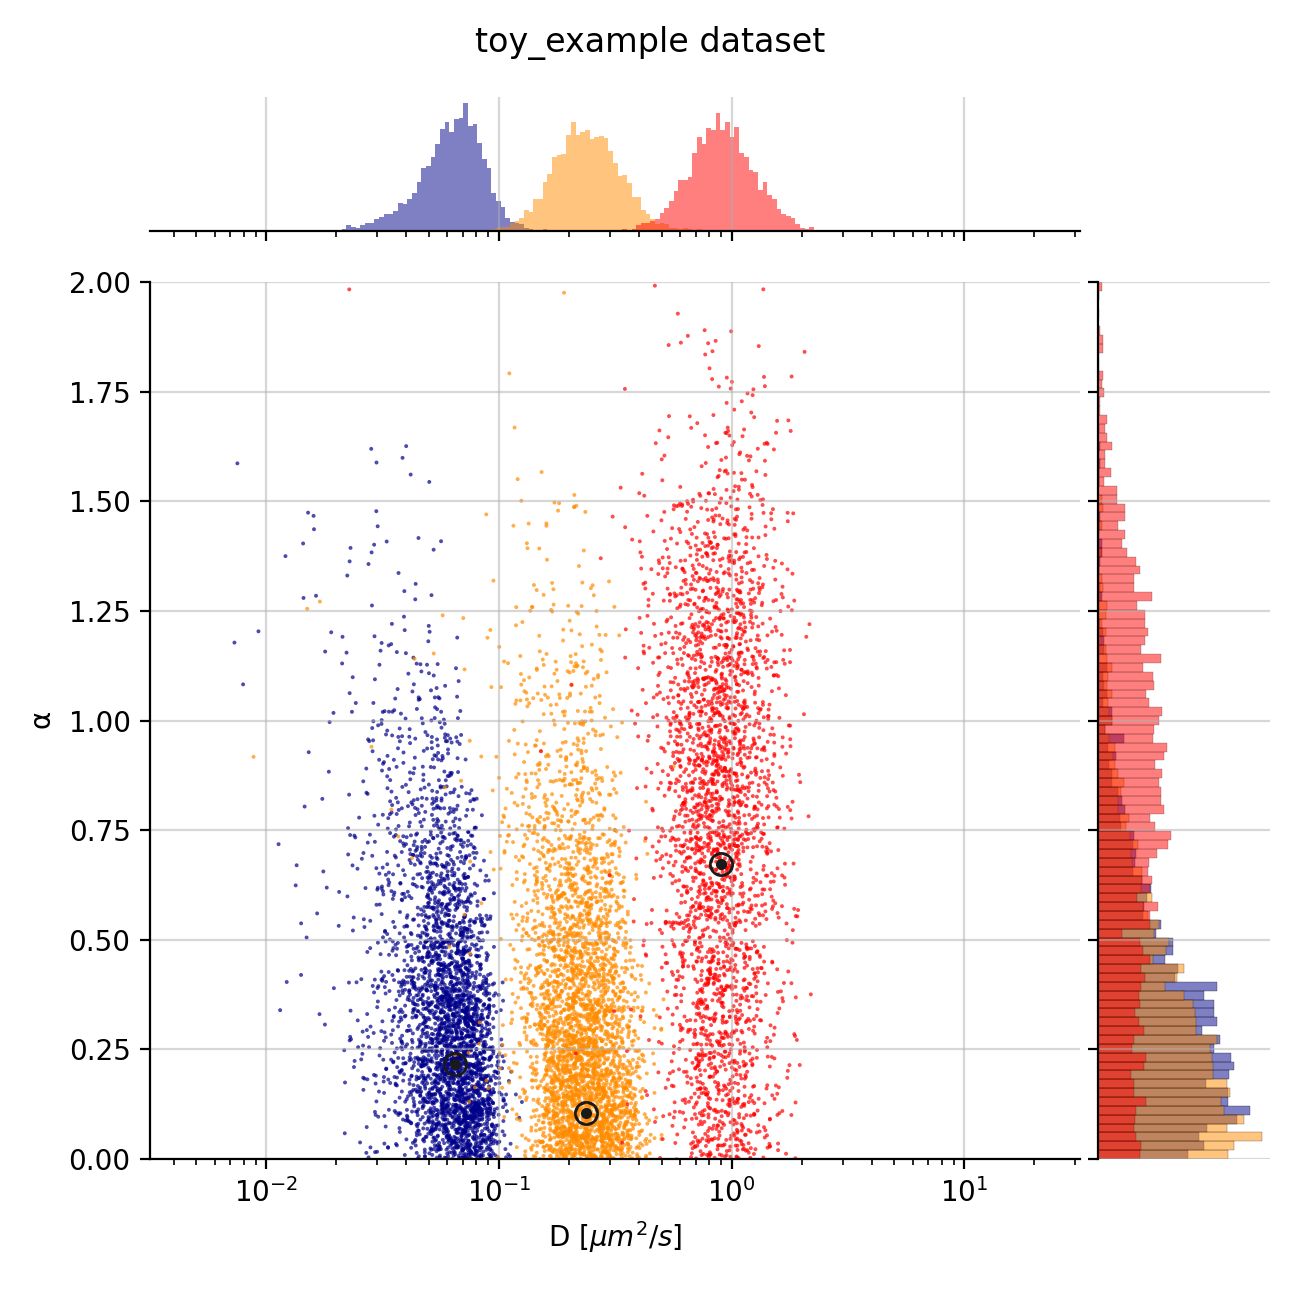
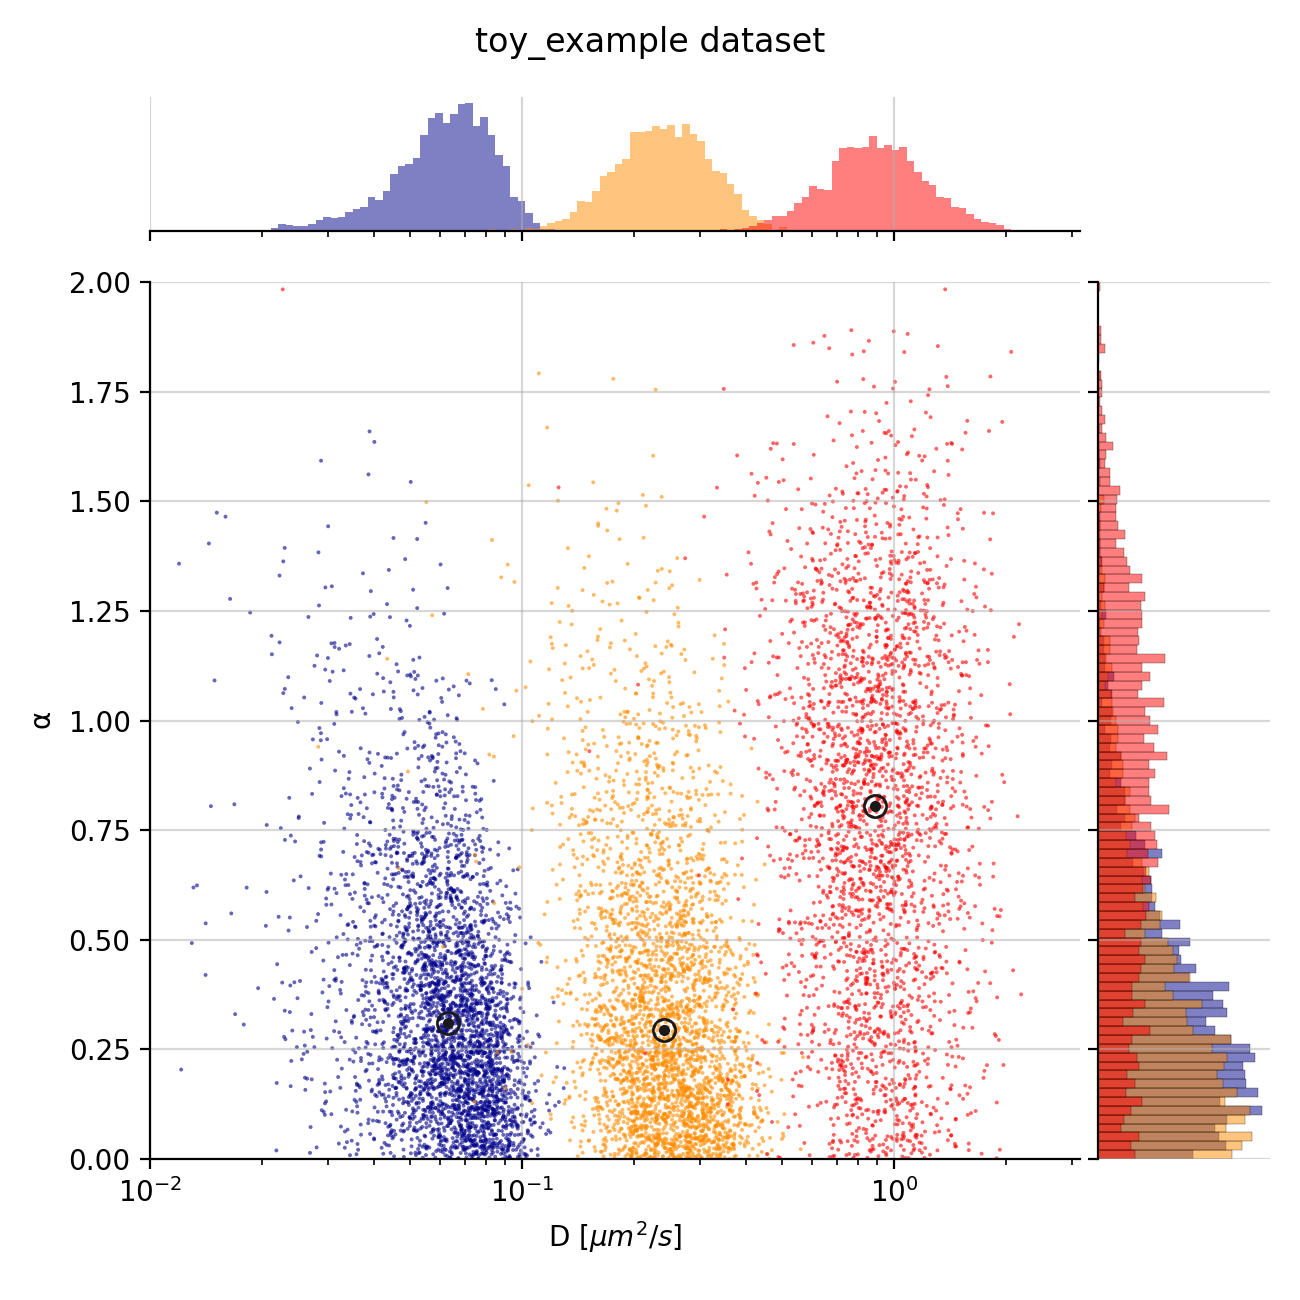
fix

diff --git a/src/analysis.py b/src/analysis.py
@@ -120,6 +120,7 @@ def compute_all_msd(tracklet_lists, parms):
 
 def plot_scatter_alpha_diffusion(motion_parms, parms):
     """Make a scatter plot of both the alpha and diffusion distributions."""
+    print('\ncentroids...')
     func = None
     for state in range(parms['num_states']):
         col = parms['colors'][state]
@@ -130,25 +131,26 @@ def plot_scatter_alpha_diffusion(motion_parms, parms):
         if func is None:
             func = sns.JointGrid(x='x', y='y', data=dataframe, height=6.5)
             axs = func.ax_joint
-        tmp_alpha = np.array(motion_parms[state]['alpha'])
         tmp_diff = np.array(motion_parms[state]['diffusion'])
-        axs.scatter(tmp_diff, tmp_alpha, alpha=0.7, color=col, edgecolor='none', s=2)
-        # s=0.3
-        centroid = {'diffusion': np.median(tmp_diff),
-                    'alpha': np.median(tmp_alpha)}
+        tmp_alpha = np.array(motion_parms[state]['alpha'])
+        tmp_diff = tmp_diff[tmp_alpha>=0]
+        tmp_alpha = tmp_alpha[tmp_alpha>=0]
+        axs.scatter(tmp_diff, tmp_alpha, alpha=0.6, color=col, edgecolor='none', s=2)
+        centroid = {'diffusion': np.median(tmp_diff), 'alpha': np.median(tmp_alpha)}
+        print(f"state {state+1}: alpha = {centroid['alpha']:>4.2f}, D = {centroid['diffusion']:>4.2f} µm²/s")
         axs.plot(centroid['diffusion'], centroid['alpha'], 'o', color='0.1', alpha=1, ms=3)
         axs.plot(centroid['diffusion'], centroid['alpha'], 'o', color='0.1', alpha=1, ms=1, mew=8)
         # bins=150, bins=200)
         bins = np.logspace(-2.5, 1.5, 200)
-        sns.histplot(x=tmp_diff, color=col, ax=func.ax_marg_x, alpha=0.5, bins=bins, stat='probability')
+        sns.histplot(x=tmp_diff, color=col, ax=func.ax_marg_x, alpha=0.5, bins=bins, stat='count')
         bins = np.linspace(0, 2, 100)
-        sns.histplot(y=tmp_alpha, color=col, ax=func.ax_marg_y, alpha=0.5, bins=bins, stat='probability')
+        sns.histplot(y=tmp_alpha, color=col, ax=func.ax_marg_y, alpha=0.5, bins=bins, stat='count')
     axs.set_xscale('log')
     axs.set_xlabel(r'$\mathrm{D}$ $[\mu m^2/s]$')
     axs.set_ylabel(r'$\mathrm{\alpha}$')
     func.ax_marg_x.grid(axis='x', alpha=0.5)
     func.ax_marg_y.grid(axis='y', alpha=0.5)
-    axs.set_xlim([10**-2.5, 10**1.5])
+    axs.set_xlim([10**-2, 10**0.5])
     axs.set_ylim([0, 2])
     axs.grid(alpha=0.5)
     fig = plt.gcf()

diff --git a/tracksegnet.py b/tracksegnet.py
@@ -11,6 +11,7 @@
 
 # Third-party modules
 import os
+import sys
 from pathlib import Path
 from datetime import datetime
 import numpy as np
@@ -29,7 +30,7 @@ if __name__ == "__main__":
 
     START_TIME = datetime.now()
 
-    PARMS_FILENAME = sys.argv[0]
+    PARMS_FILENAME = sys.argv[-1]
     # PARMS_FILENAME = 'parms.csv'
     PARMS_DF = pd.read_csv(PARMS_FILENAME, sep='\t').set_index('parms').squeeze().to_dict()
     PARMS_DF = check_parms(PARMS_DF)
@@ -58,7 +59,6 @@ if __name__ == "__main__":
         'length_threshold': 6,
 
         ## Trajectory simulation:
-        'n_dim': 2, # X and Y coordinates => 2 dimensions
         'track_length_fixed': True,
         'track_length': 27,
         'num_simulate_tracks': 10000,
@@ -66,10 +66,7 @@ if __name__ == "__main__":
         'ptm': np.array([[PARMS_DF[f'pt_{state1}_{state2}'] for state1 in range(1, NSTATES+1)]\
                         for state2 in range(1, NSTATES+1)]),
         'min_frames':4, # Minimal amount of frames
-        'min_frames_in_same_state':4, # Minimal amount of frames for particles remaining in a state
         'beta':100, # Mean of exponential distribution for length tracks
-        'num_interval':10, # Parameter for retricted motion
-        'motion':20, # Parameter for retricted motion
 
         ## Parameters to generate the LSTM model:
         'num_features': 6,

diff --git a/paper/paper.md b/paper/paper.md
@@ -22,17 +22,16 @@ bibliography: paper.bib
 
 # Summary
 
-`TrackSegNet` is a python program to run from command line, which permits the classification and segmentation of trajectories into diffusive states by computing trajectory features which are used as inputs to a supervised deep neural network. After segmentation, `TrackSegNet` further estimates the motion parameters (the diffusion constant $D$ and anomalous exponent $\alpha$) for each segmented track using the mean squared displacement (MSD) analysis. The measured features and resulting segmentation are stored as CSV files which can be useful for subsequent work (probability calculations, generate figures for scientific publication, etc.). Originally developped for the quantification of protein dynamics using single-particle tracking (SPT) experiments, its use can be extended to any type of trajectory dataset.
+`TrackSegNet` is a python program to run from command line, which permits the classification and segmentation of trajectories into diffusive states by computing trajectory features which are used as inputs to a supervised deep neural network. After segmentation, `TrackSegNet` further estimates the motion parameters (the diffusion constant $D$ and anomalous exponent $\alpha$) for each segmented track using the mean squared displacement (MSD) analysis. The measured features and resulting segmentation are stored as CSV files which can be useful for subsequent work (e.g., probability calculations, generate figures for scientific publication). Originally developped for the quantification of protein dynamics using single-particle tracking (SPT) experiments, its use can be extended to any type of trajectory dataset.
 
 # Statement of need
 
-Recent advances in the field of microscopy allow the capture, at nanometer resolution, of the motion of fluorescently-labeled particles in live cells such as proteins or chromatin loci. Therefore, the development of methods to characterize the dynamics of a group of particles has become more than necessary [@munoz2021]. A typical analysis is the classification and segmentation of trajectories into diverse diffusive state, when multiple types of motion are present in a dataset (e.g., confined, superdiffusive) due to the properties of the labeled molecule (e.g., protein bound/unbound to the DNA).
+Recent advances in the field of microscopy allow the capture, at nanometer resolution, of the motion of fluorescently-labeled particles in live cells such as proteins or chromatin loci. Therefore, the development of methods to characterize the dynamics of a group of particles has become more than necessary [@munoz2021]. A typical analysis is the classification and segmentation of trajectories into diverse diffusive states when multiple types of motion are present in a dataset (e.g., confined, superdiffusive) due to the properties of the labeled molecule (e.g., protein bound/unbound to the DNA).
 
 
 # Method
 
-The method is based on @arts2019 with slight improvements described in the "Novelty" subsection. This software was specifically developed for replicability on other datasets.
-
+This software is based on the method of @arts2019 with slight improvements, and allows replicability on other datasets.
 
 ## Neural Network
 
@@ -40,12 +39,12 @@ Tracking particles from 2-dimensional images results in a set $\mathcal{S}$ of t
 
 The network is built using functions from the Keras library [@chollet2015], and is composed of a bidirectional long short-term memory (LSTM) layer (having 200 hidden units) followed by a fully connected time-distributed layer with a `SoftMax` activation function. The inputs of the network are of six trajectory features computed beforehand, while the outputs are probabilities for each trajectory point of belonging to one of the $N$ diffusive states, the predicted state is defined by the highest probability.
 
-The computed features along a given trajectory are: the displacements $\Delta x_{\delta=1}$ and $\Delta y_{\delta=1}$ at the first discrete time interval $\delta$ (with $\Delta r_\delta (t) = r(t) - r(t+\delta)$), the distances $d_{\delta=1}$ (with $d_\delta (t) = \sqrt{\Delta x_\delta (t)^2 - \Delta y_\delta (t)^2}$), the mean of displacements $\overline{d_{\delta=1,p=1}}$ and $\overline{d_{\delta=2,p=1}}$ ($\overline{d_{\delta,p}}(t) = \frac{1}{2p+1}\sum_{k=t-p}^{t+p} d_{\delta}(k)$ with $p\geq 1$) and the angles between two consecutive displacements $\theta_{\delta=1}$. The first and last trajectory points of each trajectory vector are discarded due to missing feature(s).
+The computed features along a given trajectory are: the displacements $\Delta x_{\delta=1}$ and $\Delta y_{\delta=1}$ at the first discrete time interval $\delta=1$ (with $\Delta r_\delta (t) = r(t) - r(t+\delta)$), the distances $d_{\delta=1}$ (with $d_\delta (t) = \sqrt{\Delta x_\delta (t)^2 - \Delta y_\delta (t)^2}$), the mean of displacements $\overline{d_{\delta=1,p=1}}$ and $\overline{d_{\delta=2,p=1}}$ (with $\overline{d_{\delta,p}}(t) = \frac{1}{2p+1}\sum_{k=t-p}^{t+p} d_{\delta}(k)$ with $p\geq 1$) and the angles between two consecutive displacements $\theta_{\delta=1}$. The last feature is an addition to the initial method, used for a better distinction of the trajectory confinement. The first and last trajectory points of each trajectory vector are discarded due to missing computed feature(s).
 
 
 ## Training
 
-The network is trained using synthetic fractional Brownian motion (fBm) trajectories of mixed diffusive states. For this purpose, 10,000 fBm trajectories with a switching mode between states and a total length of 27 frames are generated for each training. The fBm process is characterized using the fBm kernel [@lundahl1986] defined as $k_{\text{FBM}}(t) = D\left[\ \lvert t+1\rvert^\alpha  - 2 \lvert t\rvert^\alpha + \lvert t-1\rvert^\alpha\right]$, with $t=\Delta t / \delta$ ($\Delta t$ the time measured between two frames) and the pre-defined motion parameters $m = (D, \alpha)$.
+The network is trained using synthetic fractional Brownian motion (fBm) trajectories of mixed diffusive states. For this purpose, 10,000 fBm trajectories with a switching mode between states and a total length of 27 frames are generated for each independent training. The fBm process is characterized using the fBm kernel [@lundahl1986] defined as $k_{\text{FBM}}(t) = D\left[\ \lvert t+1\rvert^\alpha  - 2 \lvert t\rvert^\alpha + \lvert t-1\rvert^\alpha\right]$, with $t=\Delta t / \delta$ ($\Delta t$ the time measured between two frames) and the pre-defined motion parameters $m = (D, \alpha)$.
 
 The model is optimized using `Adam` during the training and a categorical cross-entropy loss function.
 
@@ -55,41 +54,26 @@ The model is optimized using `Adam` during the training and a categorical cross-
 The main parameters of the training are tunable from the `params.csv` file to create a new variant of the model:
 
 * `num_states` is an important parameter permitting to decide the number $N$ of diffusive states. This number can vary from 2 to 6 states, but it is recommended to choose 2 to 4 states.
-* `state_i_diff` and `state_i_alpha` the approximate motion parameters $m$ for each of the $N$ diffusive state. The diffusion constant $D$ is dimensionless, and the anomalous exponent value $\alpha$ is ranging from 0 to 2.
+* `state_i_diff` and `state_i_alpha` the approximate motion parameters $m$ for each of the $N$ diffusive state. The diffusion constant $D$ is dimensionless, and the anomalous exponent value $\alpha$ is ranging from 0 to 2 (]0-1[: subdiffusion, 1: Brownian motion, ]1-2[: superdiffusion).
 * `pt_i_j` the probability of transitionning from the state i to the state j. The total number of probabilities should be $N^2$.
 
 The remaining parameters are related to the experimental dataset:
 
-* `data_path` the path of the dataset of trajectories to segment.
-* `format_track` the format of the files containing the trajectory coordinates, either `MDF` (see `MTrackJ` data file format) or `CSV`
-* `time_frame` the time interval between two trajectory points in seconds.
-* `pixel_size` the dimension of a pixel in $\mu m$.
+* `data_path`, the path of the dataset of trajectories to segment.
+* `track_format`, the format of the files containing the trajectory coordinates, either `MDF` (see `MTrackJ` data file format) or `CSV`
+* `time_frame`, the time interval between two trajectory points in seconds.
+* `pixel_size`, the dimension of a pixel in $\mu m$.
 
 
 ## Classification and MSD analysis
 
-
-After training the model, the gaps in the trajectories are filled (see next subsection) and the features are computed for each experimental trajectories. Each point are therefore classified as one of the $N$ diffusive states using the trained model. Based on the state classification, the trajectories are segmented and the motion parameters are estimated for each segmented track (longer than 6 frames) using the MSD analysis. It consists of applying a least-square fit from the logarithm form of the MSD power-law equation [@metzler2014]. Both $D$ and $\alpha$ distributions can be plotted in a scatterplot as shown in Figure \autoref{fig:scatterplot}. The new probability transition matrix and proportion of tracklet points in each diffusive state are also calculated.
+Before computing the features for each experimental trajectory, gaps in trajectories of length 1 are filled by a randomly generated point; while the larger gaps are split in two separate trajectories. Each point is therefore classified as one of the $N$ diffusive states using the trained LSTM model. Based on the state classification, the trajectories are segmented and the motion parameters are estimated for each segmented track (longer than 5 frames) using the MSD analysis. The latter consists of applying a least-square fit from the logarithm form of the MSD power-law equation [@metzler2014]. Both $D$ and $\alpha$ distributions can be plotted in a scatterplot as shown in Figure \autoref{fig:scatterplot}. The new probability transition matrix and proportion of tracklet points in each diffusive state are also calculated.
 
 ![Scatterplot of $D$ and $\alpha$ distributions estimated from the MSD analysis using the segmented trajectories. \label{fig:scatterplot}](fig_toy_example_scatterplot_msd.png)
 
-
-## Novelty
-
-The major improvements include:
-
-* The experimental trajectories presenting a gap of 1-length frame are filled with a randomly generated point. The large gaps having a length of two or more are split in two separate trajectories.
-
-* The computation of angles as an additional feature for better distinction of the trajectory confinement.
-
-* The choice of running the MSD analysis instead of the moment scaling spectrum (MSS) analysis. The computation of the diffusion constant $D$ is now estimated for any $\alpha$ value. It was previously calculated with an equation where $\alpha$ is fixed at 1.
-
-* Making a user-friendly python software for replicability. Each step is independently saved (e.g., features, model, predicted states) to pre-load them in the event of parameter adjustment for example.
-
-
 # Acknowledgements
 
-I would like to thanks Selçuk Yavuz and Martin van Royen for sharing SPT data used as a toy example, Maarten W. Paul for testing the software and fixing minor mistakes. This work was supported by the Dutch Research Council (NWO) through the Building Blocks of Life research program (GENOMETRACK project, Grant No. 737.016.014). 
+I would like to thanks Selçuk Yavuz and Martin E. van Royen for sharing SPT data used as a toy example, Maarten W. Paul for testing the software and fixing minor mistakes. This work was supported by the Dutch Research Council (NWO) through the Building Blocks of Life research program (GENOMETRACK project, Grant No. 737.016.014).
 
 
 # References

diff --git a/README.md b/README.md
@@ -37,7 +37,7 @@ python -m pip install -r requirements.txt
 
 ### Data organization
 
-Organize your data in a folder `SPT_experiment`, each sub-folder should contain a file containing the trajectories in a `MDF` or `CSV` file format.
+Organize your data in a folder `SPT_experiment`, each sub-folder should contain a file storing the trajectory coordinates in a `MDF` or `CSV` file format.
 
 If `CSV` format is used, the headers should be: `x, y, frame, track_id`
 
@@ -68,11 +68,13 @@ If `CSV` format is used, the headers should be: `x, y, frame, track_id`
 Update the main parameters in the `parms.csv` file according to your experiment:
 
 - `data_path`: the path containing your data folder `SPT_experiment` to analyze
-- `time_frame`: the time between two frames (in second)
-- `pixel_size`: the size of a pixel (in µm)
+- `track_format`: The format of the files containing the trajectory coordinates, should be `MDF` or `CSV`
+- `time_frame`: the time interval between two trajectory points (in second)
+- `pixel_size`: the dimension of a pixel (in µm)
 - `num_states`: the number of diffusive states for the classification(from 2 to 6 states)
 - `state_X_diff`: The expected diffusion value for state X (in µm^2/s).
-- `state_X_alpha`: The expected anomalous exponent α value for state X (from 0 to 2 -- [0-1[: subdiffusion, 1: Brownian motion, ]1-2]: superdiffusion).
+- `state_X_alpha`: The expected anomalous exponent α value for state X (from 0 to 2 -- ]0-1[: subdiffusion, 1: Brownian motion, ]1-2[: superdiffusion).
+- `pt_i_j`: the probability of transitionning from the state i to the state j. The total number of probabilities should be $N^2$.
 
 Note that the program will run on the toy example if the parameters are unchanged.
 
@@ -82,7 +84,7 @@ For updating the parameters of the track simulation and neural network training,
 ## Run the program
 
 ```
-python tracksegnet.py parms.csv
+./tracksegnet.py parms.csv
 ```
 
 ## Reference
